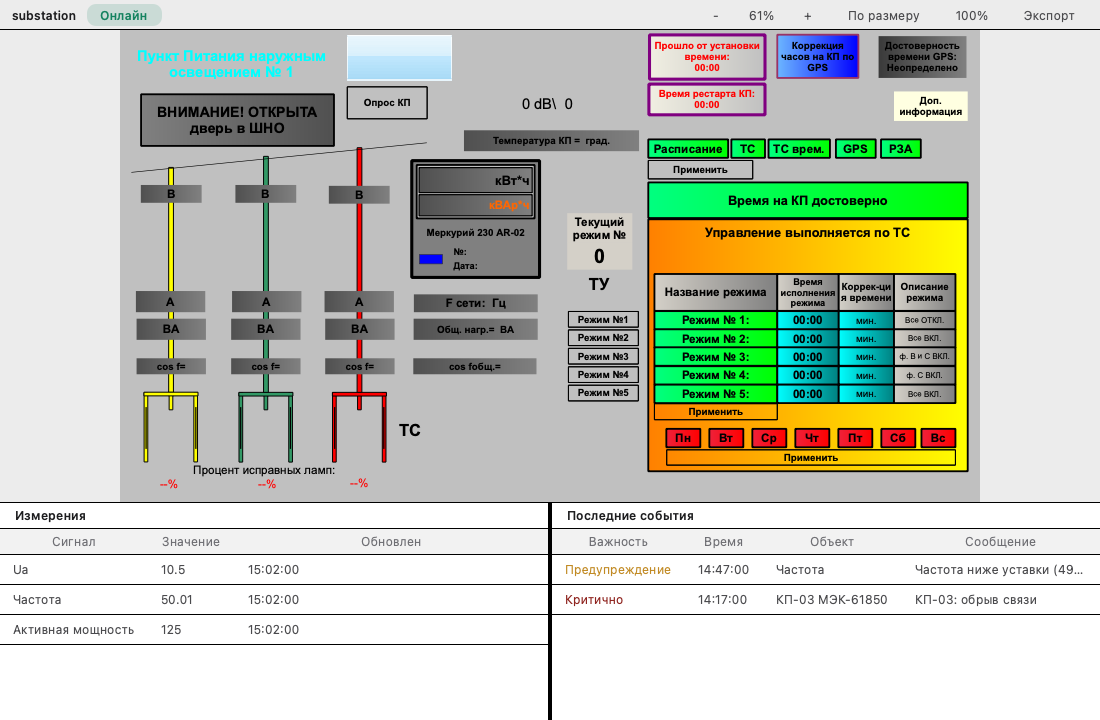
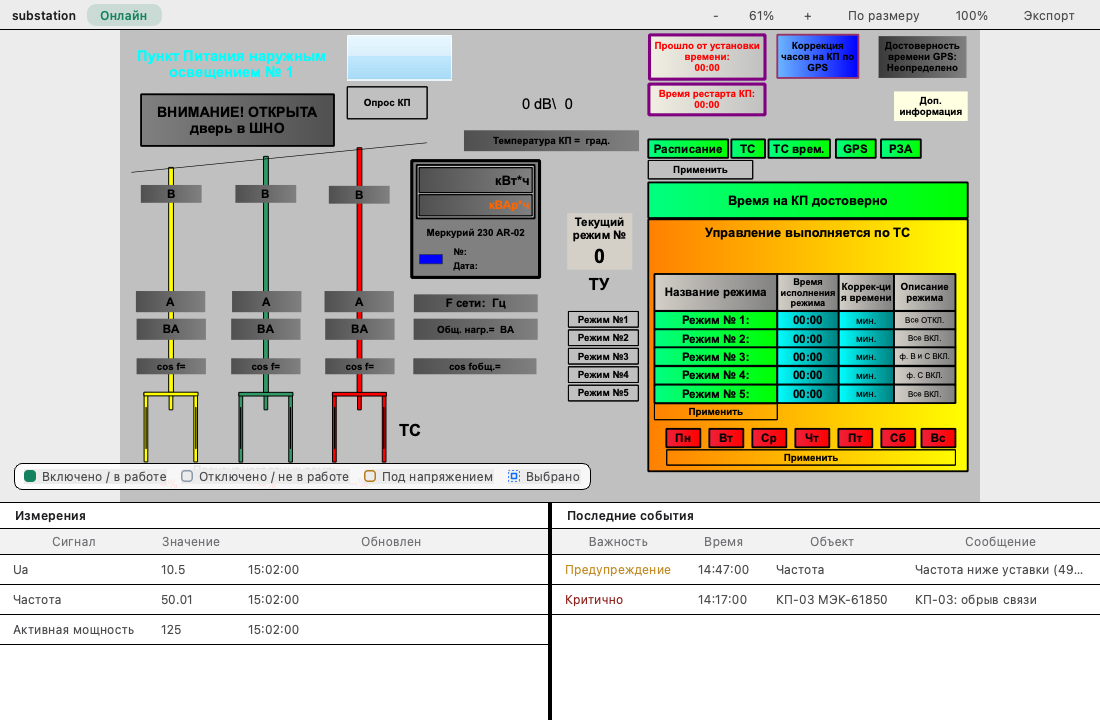
client: paint the legend swatches, and record phase 5 (748, ADR 0012)
The Selected swatch was a QLabel with `border: 1.5px dashed` and a
border-radius, and Qt renders that SOLID at 12px -- found by looking at the
generated capture, where Selected, Open and Energized were three hollow
squares distinguishable by hue alone. design-language.md §2 asks for shape as
well as colour on single-line state, so the swatches are painted now, and the
selection chip is a miniature of the halo the diagram draws: inner solid rect,
dashed outer ring. A reader can map legend to drawing without being told.

The capture is re-rendered in both appearances, with its two manifest rows'
provenance updated. The legend's own light-against-dark comparison is what
found the defect above -- same surface, same fixture, different token table.

ADR 0012 goes to Implemented, and phase 5 is recorded in the shape it
actually landed rather than the one the original paragraph described. Two of
its open questions are settled and one was settled eight days ago by phase 4
and never struck: generate_goldens.cpp survived, which that phase's own note
already said. Fit-versus-fill stays open and now says why phase 5 did not
force it.

shell.md §2.7 gains the `Selected <element>` cell -- the first the strip
takes from an active view rather than from the shell -- and the three
properties that keep it from contradicting the section's own "identity and
connection, here and nowhere else" contract.

Changed region(s): [[0.0, 0.6417, 0.5564, 0.7028]]

diff --git a/modules/display_frame/qt/display_frame.cpp b/modules/display_frame/qt/display_frame.cpp
@@ -19,6 +19,8 @@
 #include <QHBoxLayout>
 #include <QHeaderView>
 #include <QLabel>
+#include <QPainter>
+#include <QPen>
 #include <QPixmap>
 #include <QResizeEvent>
 #include <QScrollArea>
@@ -69,17 +71,64 @@ QString Tr(std::string_view text) {
   return QString::fromStdU16String(Translate(text));
 }
 
-// One legend entry: a swatch in `color` followed by `label`.
+// How one legend swatch is drawn. Shape as well as colour, because
+// design-language.md §2 requires a single-line state to stay legible without
+// relying on hue: `kFilled` is a closed device, `kHollow` an open one or a
+// conductor, and `kSelection` is a miniature of the halo the diagram paints.
+enum class LegendSwatchKind { kFilled, kHollow, kSelection };
+
+// The legend's colour chip, painted rather than styled.
 //
-// `filled` fills the swatch as well as outlining it (a closed device is drawn
-// solid), and `dashed` draws the outline dashed (the selection halo). Between
-// them the four states the mockup legends are distinguishable without relying
-// on colour alone, which is what design-language.md asks of single-line
-// semantics.
+// A QSS `border: 1.5px dashed` with a `border-radius` renders SOLID at this
+// size -- measured on the generated capture, where the Selected swatch came
+// out an unbroken outline and was left distinguishable from Open and
+// Energized by hue alone. Painting it is also what lets the selection chip
+// carry the same inner-plus-dashed-outer pair the halo does, so the legend
+// reads as a key to the drawing rather than as a separate vocabulary.
+class LegendSwatch final : public QWidget {
+ public:
+  LegendSwatch(const QColor& color, LegendSwatchKind kind, QWidget* parent)
+      : QWidget{parent}, color_{color}, kind_{kind} {
+    setFixedSize(kLegendSwatchSize, kLegendSwatchSize);
+  }
+
+ protected:
+  void paintEvent(QPaintEvent*) override {
+    QPainter painter{this};
+    painter.setRenderHint(QPainter::Antialiasing, true);
+
+    if (kind_ == LegendSwatchKind::kSelection) {
+      // The halo, in miniature: a solid rect on the symbol and a dashed one
+      // outside it. Same order and same relative weights as PaintSelection.
+      const QRectF inner = QRectF{rect()}.adjusted(3.5, 3.5, -3.5, -3.5);
+      painter.setBrush(Qt::NoBrush);
+      painter.setPen(QPen{color_, 1.5});
+      painter.drawRect(inner);
+
+      QPen outer{color_, 1.0, Qt::DashLine};
+      outer.setDashPattern({2, 2});
+      painter.setPen(outer);
+      painter.setOpacity(0.8);
+      painter.drawRect(QRectF{rect()}.adjusted(0.5, 0.5, -0.5, -0.5));
+      return;
+    }
+
+    const QRectF box = QRectF{rect()}.adjusted(0.75, 0.75, -0.75, -0.75);
+    painter.setBrush(kind_ == LegendSwatchKind::kFilled ? QBrush{color_}
+                                                        : Qt::NoBrush);
+    painter.setPen(QPen{color_, 1.5});
+    painter.drawRoundedRect(box, 3, 3);
+  }
+
+ private:
+  QColor color_;
+  LegendSwatchKind kind_;
+};
+
+// One legend entry: a swatch in `color` followed by `label`.
 QWidget* MakeLegendEntry(const QString& label,
                          const QColor& color,
-                         bool filled,
-                         bool dashed,
+                         LegendSwatchKind kind,
                          const scada::aui::ThemeTokens& tokens,
                          QWidget* parent) {
   auto* entry = new QWidget{parent};
@@ -87,14 +136,7 @@ QWidget* MakeLegendEntry(const QString& label,
   layout->setContentsMargins(0, 0, 0, 0);
   layout->setSpacing(6);
 
-  auto* swatch = new QLabel{entry};
-  swatch->setFixedSize(kLegendSwatchSize, kLegendSwatchSize);
-  swatch->setStyleSheet(
-      QStringLiteral("background:%1;border:1.5px %2 %3;border-radius:3px;")
-          .arg(filled ? color.name() : QStringLiteral("transparent"),
-               dashed ? QStringLiteral("dashed") : QStringLiteral("solid"),
-               color.name()));
-  layout->addWidget(swatch);
+  layout->addWidget(new LegendSwatch{color, kind, entry});
 
   auto* text = new QLabel{label, entry};
   text->setStyleSheet(QStringLiteral("color:%1;").arg(tokens.fg_muted.name()));
@@ -366,16 +408,16 @@ void DisplayFrame::BuildLegend() {
   // meaning. "Closed" is spelled out for the same reason (it is already
   // «Закрыт»). See client/CLAUDE.md, Localization.
   layout->addWidget(MakeLegendEntry(Tr("Closed / in service"), tokens.sl_closed,
-                                    /*filled=*/true,
-                                    /*dashed=*/false, tokens, legend_));
+                                    LegendSwatchKind::kFilled, tokens,
+                                    legend_));
   layout->addWidget(MakeLegendEntry(Tr("Open / not in service"), tokens.sl_open,
-                                    /*filled=*/false,
-                                    /*dashed=*/false, tokens, legend_));
+                                    LegendSwatchKind::kHollow, tokens,
+                                    legend_));
   layout->addWidget(MakeLegendEntry(Tr("Energized"), tokens.sl_live,
-                                    /*filled=*/false, /*dashed=*/false, tokens,
+                                    LegendSwatchKind::kHollow, tokens,
                                     legend_));
   layout->addWidget(MakeLegendEntry(Tr("Selected"), tokens.accent,
-                                    /*filled=*/false, /*dashed=*/true, tokens,
+                                    LegendSwatchKind::kSelection, tokens,
                                     legend_));
 
   legend_->adjustSize();
